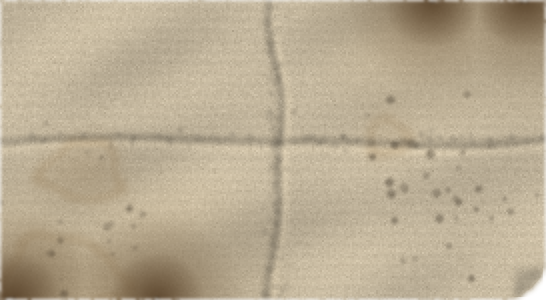
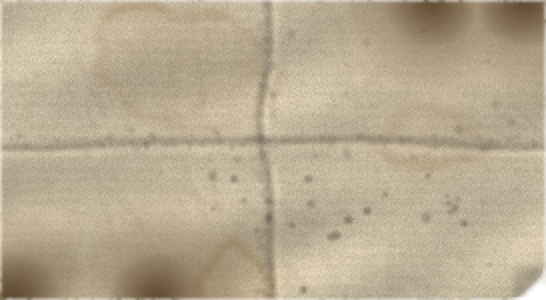
账单纸加三层低对比纹理，污渍避开文字行带
- 半调网点：旋转 12~24° 的点阵（间距 9~13*scale，缩到显示尺寸正好 3~5 像素），纸面一下就有印刷品的颗粒
- 纸面起伏：两层低频高度场取梯度当掠射光，大块对角明暗，纸不再是一块平色板
- 细褶纹：22~40 条长短弧线，暗线+错位亮线成对，像揉过又摊平的纸
- 文字行带 bands：按每种尺寸的实际排版给 y 区间，带内水渍/油污乘 0.50（纹理保留、污渍减半），字不再被糊住
  - 236x74：标题金额带 + 状态带；182x100：名字天数带；420x570：户号带 + 明细三行带
- 纤维丝加长加密（上限 900→1300，幅度 9→11）；水渍/网点/褶纹整体加强一档
- smoke 311 全绿；账本页与放大单截图确认文字清晰

diff --git a/tools/gen_newsprint.py b/tools/gen_newsprint.py
@@ -34,11 +34,16 @@ PREVIEW_DIR = BASE
 #   ghost   印刷残留种类（rules 横格线 / table 表格+印章 / 空 = 无）
 #   curl    卷角强度（0 = 不卷）
 #   oxide   氧化带系数：卡片上文字要能读，氧化压轻些；大张可以重
+#   bands   文字行带（0~1 的 y 区间）：这些带里污渍/油污减半，字不被糊住
 SHEETS = [
-    dict(w=236, h=74, scale=3, variants=4, folds=('v',), stains=3, specks=True, ghost='rules', curl=0.0, oxide=0.62),
-    dict(w=182, h=100, scale=3, variants=3, folds=('v', 'h'), stains=3, specks=True, ghost='rules', curl=0.55, oxide=0.62),
-    dict(w=420, h=570, scale=2, variants=3, folds=('v', 'h', 'v2'), stains=4, specks=True, ghost='table', curl=1.0, oxide=1.0),
-    dict(w=46, h=30, scale=3, variants=2, folds=(), stains=0, specks=False, ghost='', curl=0.0, oxide=0.8),
+    dict(w=236, h=74, scale=3, variants=4, folds=('v',), stains=4, specks=True, ghost='rules', curl=0.0, oxide=0.62,
+         bands=((0.28, 0.58), (0.76, 0.98))),
+    dict(w=182, h=100, scale=3, variants=3, folds=('v', 'h'), stains=4, specks=True, ghost='rules', curl=0.55, oxide=0.62,
+         bands=((0.06, 0.54),)),
+    dict(w=420, h=570, scale=2, variants=3, folds=('v', 'h', 'v2'), stains=5, specks=True, ghost='table', curl=1.0, oxide=1.0,
+         bands=((0.24, 0.33), (0.62, 0.83))),
+    dict(w=46, h=30, scale=3, variants=2, folds=(), stains=0, specks=False, ghost='', curl=0.0, oxide=0.8,
+         bands=()),
 ]
 
 # 调色：新闻纸偏灰的米黄，不是奶油白；氧化到边缘变成脏褐
@@ -202,8 +207,8 @@ def water_stains(W, H, scale, rng, count):
         dr.polygon(pts, outline=int(rng.uniform(170, 230)), width=max(2, int(2.2 * scale)))
     inner = inner.filter(ImageFilter.GaussianBlur(4.5 * scale))
     rim = rim.filter(ImageFilter.GaussianBlur(1.6 * scale))
-    a = np.maximum(np.asarray(inner, np.float32) / 255.0 * 0.55,
-                   np.asarray(rim, np.float32) / 255.0 * 0.62)
+    a = np.maximum(np.asarray(inner, np.float32) / 255.0 * 0.62,
+                   np.asarray(rim, np.float32) / 255.0 * 0.80)
     return a[..., None]
 
 
@@ -228,14 +233,79 @@ def paper_fibers(W, H, scale, rng):
     layer = Image.new('L', (W, H), 0)
     d = ImageDraw.Draw(layer)
     count = int(60 * scale * (W * H) / (400.0 * 400.0) * 40)
-    for _ in range(max(6, min(count, 900))):
+    for _ in range(max(6, min(count, 1300))):
         x0, y0 = rng.uniform(0, W), rng.uniform(0, H)
-        ln = rng.uniform(1.5, 7.0) * scale
+        ln = rng.uniform(1.5, 8.0) * scale
         ang = rng.uniform(-0.35, 0.35)
         d.line([(x0, y0), (x0 + np.cos(ang) * ln, y0 + np.sin(ang) * ln)],
-               fill=int(rng.uniform(60, 130)), width=1)
+               fill=int(rng.uniform(60, 140)), width=1)
     a = np.asarray(layer.filter(ImageFilter.GaussianBlur(0.4 * scale)), np.float32) / 255.0
-    return (a[..., None] - 0.0) * 9.0  # 亮度加一点点
+    return (a[..., None] - 0.0) * 11.0  # 亮度加一点点
+
+
+def halftone(W, H, scale, rng):
+    """报纸的网点：旋转 15° 左右的点阵。幅度很小，但放大看就是印刷品而非纯色纸。
+    间距按 scale 定，缩到游戏里的显示尺寸后正好落在 3~5 像素，不会糊成一片。"""
+    pitch = rng.uniform(9.0, 13.0) * scale
+    ang = np.deg2rad(rng.uniform(12, 24))
+    ca, sa = float(np.cos(ang)), float(np.sin(ang))
+    yy, xx = np.mgrid[0:H, 0:W].astype(np.float32)
+    u = (xx * ca + yy * sa) / pitch
+    v = (-xx * sa + yy * ca) / pitch
+    du = np.abs(u - np.round(u))
+    dv = np.abs(v - np.round(v))
+    dot = np.clip(1.0 - np.sqrt(du * du + dv * dv) / 0.46, 0.0, 1.0)
+    return ((dot - 0.32) * 5.5)[..., None]
+
+
+def surface_shade(W, H, scale, rng):
+    """纸面起伏：纸不是绝对平的，掠射光一打就有大块的明暗。低频、极轻，不抢字。"""
+    h1 = smooth_field(W, H, rng)
+    h2 = smooth_field(W, H, rng)
+    h = 0.65 * h1 + 0.35 * h2
+    gy, gx = np.gradient(h)
+    n = max(float(np.abs(gx).max()), float(np.abs(gy).max()), 1e-6)
+    shade = 1.0 + ((gx * 0.55 + gy * 0.85) / n) * 0.095
+    return np.clip(shade, 0.88, 1.12)[..., None]
+
+
+def crinkles(W, H, scale, rng):
+    """细褶纹：被揉过又摊平的纸，表面全是这种短弧。一亮一暗成对，才像折痕不像划痕。"""
+    dark = Image.new('L', (W, H), 0)
+    light = Image.new('L', (W, H), 0)
+    dd, dl = ImageDraw.Draw(dark), ImageDraw.Draw(light)
+    for _ in range(int(rng.integers(22, 40))):
+        x0, y0 = rng.uniform(0, W), rng.uniform(0, H)
+        ln = rng.uniform(0.18, 0.75) * max(W, H)
+        ang = rng.uniform(0, np.pi)
+        x1, y1 = x0 + np.cos(ang) * ln, y0 + np.sin(ang) * ln
+        mx = (x0 + x1) * 0.5 + rng.uniform(-0.18, 0.18) * ln
+        my = (y0 + y1) * 0.5 + rng.uniform(-0.18, 0.18) * ln
+        pts = [((1 - t / 8.0) ** 2 * x0 + 2 * (1 - t / 8.0) * (t / 8.0) * mx + (t / 8.0) ** 2 * x1,
+                (1 - t / 8.0) ** 2 * y0 + 2 * (1 - t / 8.0) * (t / 8.0) * my + (t / 8.0) ** 2 * y1)
+               for t in range(9)]
+        w = max(1, int(scale * 0.7))
+        dd.line(pts, fill=int(rng.uniform(90, 150)), width=w)
+        # 受光侧错开一点点
+        dl.line([(p[0] + 1.6 * scale, p[1] - 1.6 * scale) for p in pts],
+                fill=int(rng.uniform(70, 120)), width=w)
+    blur = 0.9 * scale
+    da = np.asarray(dark.filter(ImageFilter.GaussianBlur(blur)), np.float32) / 255.0
+    la = np.asarray(light.filter(ImageFilter.GaussianBlur(blur)), np.float32) / 255.0
+    return (1.0 - 0.15 * da + 0.11 * la)[..., None]
+
+
+def band_mask(W, H, scale, bands):
+    """文字行带：这些地方污渍减半，纸纹照样保留 —— 有质感，但不糊字。"""
+    if not bands:
+        return np.ones((H, W, 1), np.float32)
+    m = np.ones((H, W), np.float32)
+    for y0, y1 in bands:
+        a, b = int(max(0.0, y0) * H), int(min(1.0, y1) * H)
+        if b > a:
+            m[a:b, :] = 0.50
+    img = Image.fromarray((m * 255).astype(np.uint8))
+    return (np.asarray(img.filter(ImageFilter.GaussianBlur(2.0 * scale)), np.float32) / 255.0)[..., None]
 
 
 def apply_folds(rgb, W, H, scale, rng, folds):
@@ -383,6 +453,12 @@ def make_sheet(cfg, seed):
     shade = 1.0 + 0.075 * field + 0.011 * streak
     rgb = PAPER[None, None, :] * shade[..., None] + grain[..., None]
 
+    # 三层"纹理"：纸面起伏（大块明暗）→ 印刷网点（细密点阵）→ 揉过的细褶纹。
+    # 都是低对比，字压在上面照样清楚；但纸一下就不像一块纯色板了。
+    rgb *= surface_shade(W, H, scale, rng)
+    rgb += halftone(W, H, scale, rng)
+    rgb *= crinkles(W, H, scale, rng)
+
     # 大范围暖化：离纸心越远越黄褐，中心保持米黄
     t_body = near(dist, 0.50 * dmax) ** 1.2
     rgb = rgb * (1.0 - t_body[..., None] * 0.62) + PAPER_OUT[None, None, :] * t_body[..., None] * 0.62
@@ -396,11 +472,12 @@ def make_sheet(cfg, seed):
         g = ghost[..., None]
         rgb = rgb * (1.0 - g) + INK[None, None, :] * g
 
-    # ---- 水渍、油污
-    st = water_stains(W, H, scale, rng, int(cfg['stains']))
+    # ---- 水渍、油污（文字行带里减半：有痕迹，但不糊字）
+    bm = band_mask(W, H, scale, cfg.get('bands', ()))
+    st = water_stains(W, H, scale, rng, int(cfg['stains'])) * bm
     rgb = rgb * (1.0 - st) + STAIN[None, None, :] * st
     if cfg['specks']:
-        sp = oil_specks(W, H, scale, rng)
+        sp = oil_specks(W, H, scale, rng) * bm
         rgb = rgb * (1.0 - sp) + GRIME[None, None, :] * sp
 
     # ---- 纸纤维
